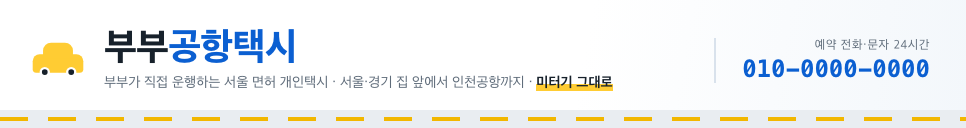
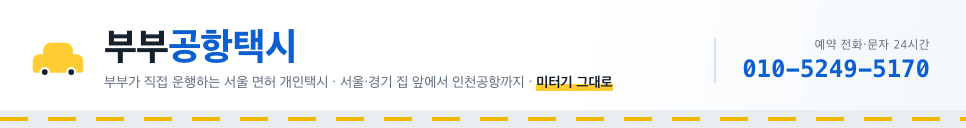
고객용 전화번호 반영, 당일 취소 위약금 명시, 디자인 이미지 번호 교체

Changed region(s): [[0.8075, 0.4688, 0.9627, 0.625]]

diff --git a/index.html b/index.html
@@ -202,7 +202,7 @@
       <dt>차량</dt><dd>아이오닉5, 최대 4명. 5명 이상이거나 캐리어가 많으면 함께 일하는 기사님들의 콜밴·대형택시로 배차해 드립니다.</dd>
       <dt>입국 픽업</dt><dd>항공편이 늦어져도 대기료는 없습니다. 출구 피켓 안내는 1만 원이 추가됩니다.</dd>
       <dt>추가 요금</dt><dd>아이 카시트 1만 원. 반려동물은 케이지에 넣으셔야 탑승할 수 있습니다.</dd>
-      <dt>취소</dt><dd>하루 전날까지 위약금 없음. 탑승 시간이 지나도록 탑승하지 못하시면 위약금 3만 원.</dd>
+      <dt>취소</dt><dd>하루 전날까지 위약금 없음. 당일 취소나 탑승 시간에 탑승하지 못하시면 위약금 3만 원.</dd>
     </dl>
     <p class="note">서울 일반택시 요금 기준: 기본 4,800원(1.6km), 이후 131m 또는 30초당 100원. 심야 할증 22~23시 20%, 23~02시 40%, 02~04시 20%. 서울·인천·고양·김포·부천·광명은 공동사업구역이라 시외할증이 없습니다.</p>
   </section>
@@ -215,7 +215,7 @@
 // ===== 설정: 두 분 확인 후 바꿔 주세요 =====
 const CONFIG = {
   brand: "부부공항택시",
-  phone: "010-0000-0000",          // 예약 전화·문자 번호
+  phone: "010-5249-5170",          // 예약 전화·문자 번호
   kakaoChannelUrl: "",             // 예: https://pf.kakao.com/_xxxxx/chat  (없으면 비워 두세요)
   maxPax: 4,                       // 아이오닉5 탑승 인원 기준
   maxBags: 3,                      // 트렁크 기준 (28~30인치 2개 + 28인치 1개, 2026-11-06 확인)
